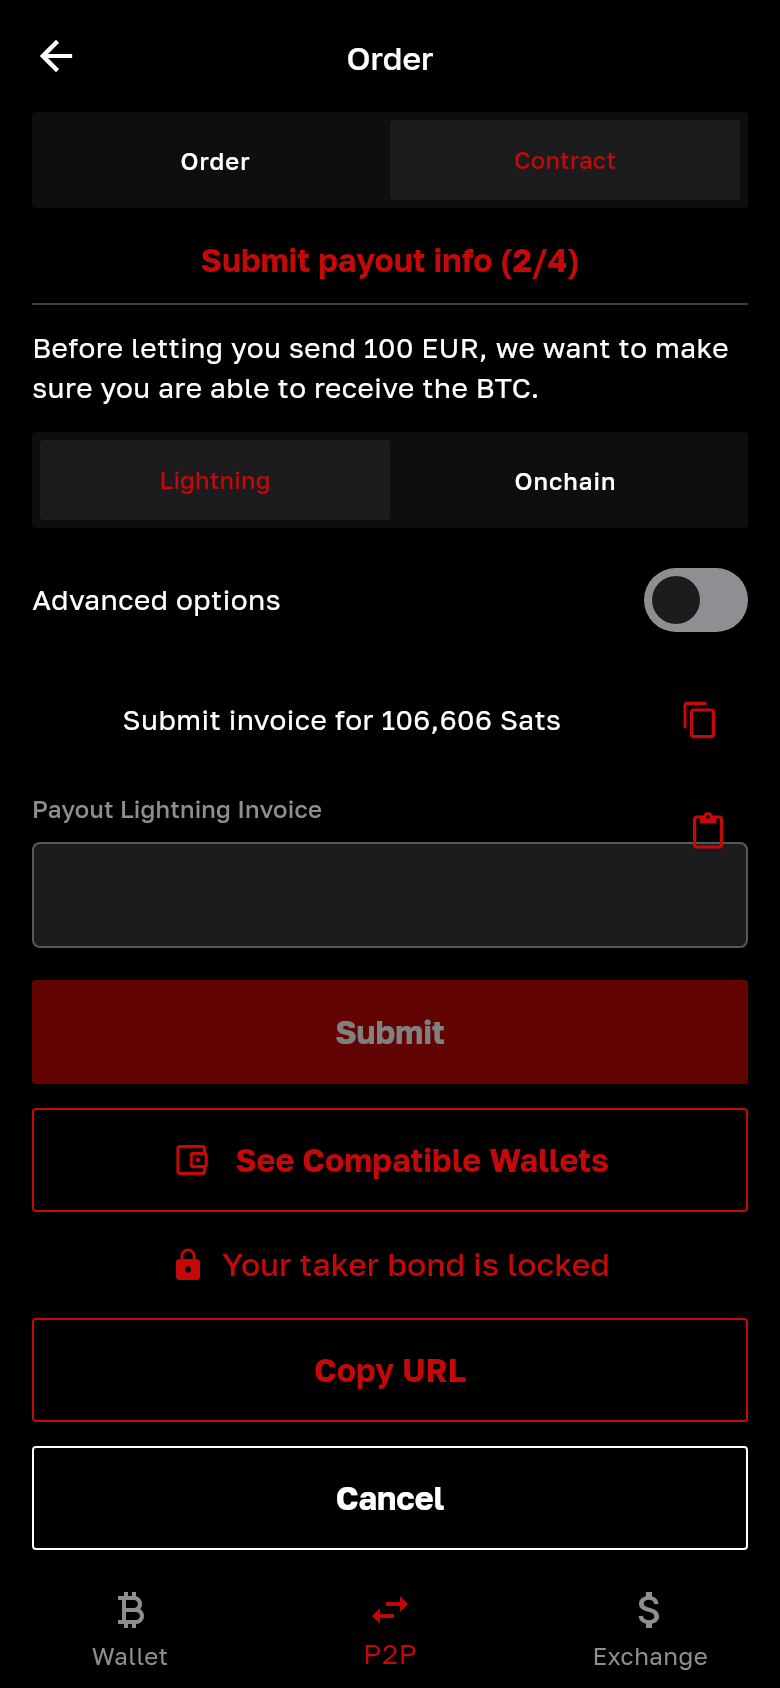
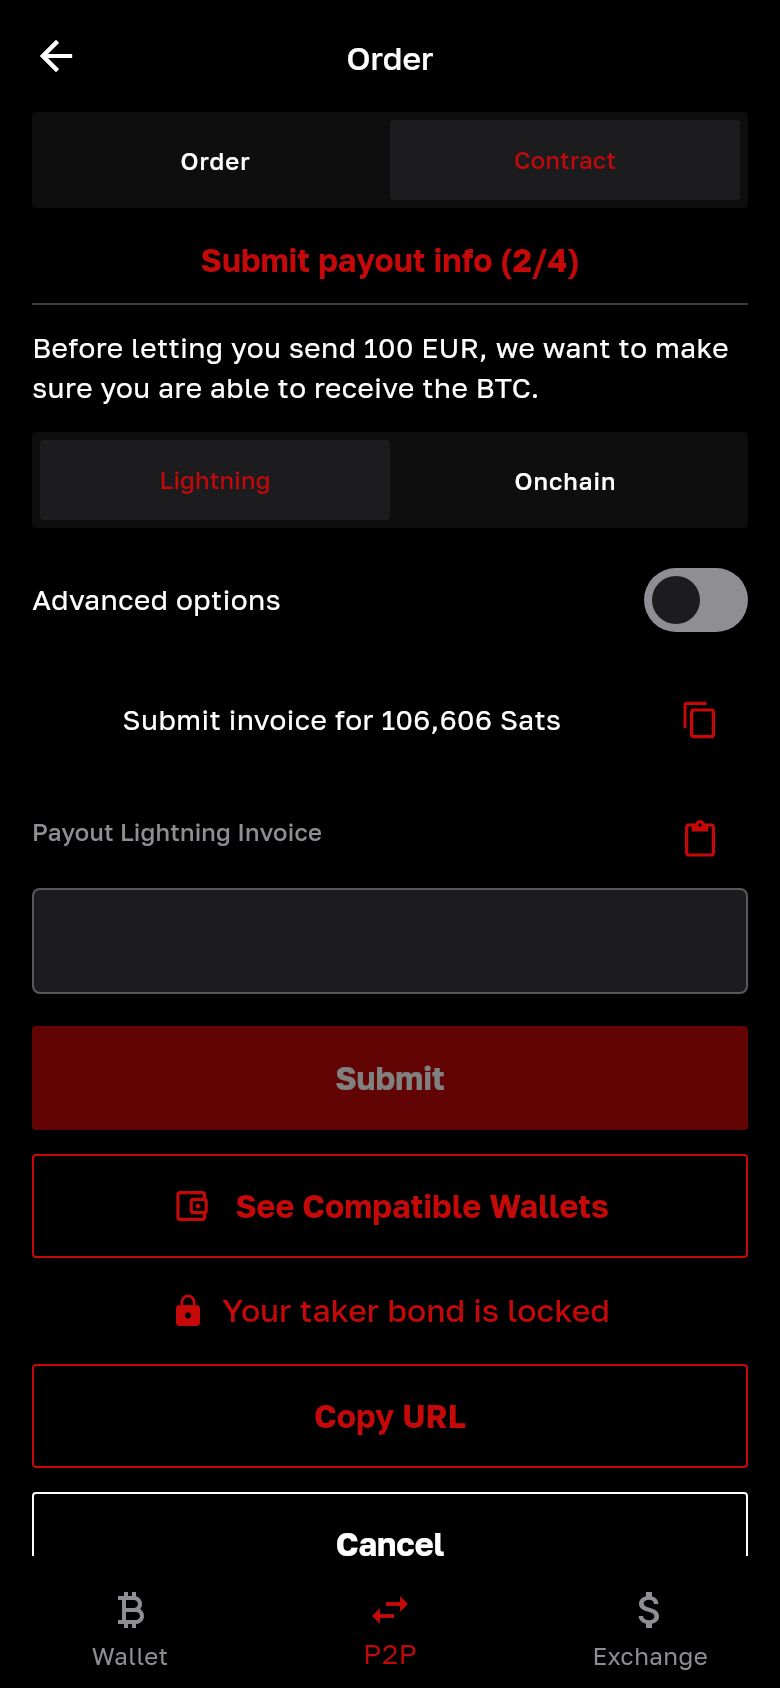
wip(p2p): the screenshot of the bond locked with « Paste » above its field, AGENTS on the tap and the reads with no time of sending

Changed region(s): [[0.0308, 0.4621, 0.9846, 0.9242], [0.0308, 0.8318, 0.0615, 0.8934]]

diff --git a/AGENTS.md b/AGENTS.md
@@ -418,7 +418,7 @@ This repository is Bull Market (formerly Troc), a fork of Bull Bitcoin Mobile. F
   Deviations from the reference, each with its reason: « Pay with this wallet » above « Pay with another wallet », which holds the reference's QR code and copy (the owner's request of 2026-11-13; « You are BUYING BTC » stays above both, the hold-invoice text under both); the facts under the QR code, no QR code for an unusable invoice, « Show anyway » and the warnings (security, design note § 4.4); « Store your garage key » without the key (security: the key is shown only in the Garage, behind the PIN); the order's details open without a robot, so its description is not shown before the take: a step that reads the order with the trade's robot and shows its description and fresh figures before the take is to come with #119 (the owner's decision of 2026-11-14), inserted in `TakeOrderSection` between « Store your garage key » and `TakeOrderCubit.take`, the only call of `TakeOrderUsecase`; « See Compatible Wallets » shows its link for copy and the QR code opens no wallet (privacy, and the feature cannot open a link); a buy order's « Take Order » disabled with a line, the steps from 9 on (15 aside, #91) replaced by a line (a later version); a line for the states of the watch the reference has no screen for (#87); several active trades listed, where the reference follows one robot; no stepper (the reference shows it on a wide screen only); a comma accepted as the decimal separator of the amount, so « 1,000 » is read as one, not a thousand (the estimate under the field shows the figure read, and the take checks the range again); « lose » for the reference's « loose »; while a take runs, a bar under « Take Order » and, after 30 s, « Still waiting for {coordinator}. Tor can take a minute. » (the reference shows its button loading only; a take over Tor can take a minute); the take's failures the reference has no text for said in words of the app (`TakeProblemL10n`, each marked « the project's own » in the feature's English translations: « Could not reach {coordinator}. The order was not taken. », « This order changed since it was shown. It was not taken: open it again from the book. », « {coordinator} asks for a taker fee above 1 %. The order was not taken. », « The terms of this order could not be checked. It was not taken. », « {reason} The order was not taken. » after the text of what failed, « Bull Market could not write its records on this device. The order was not taken. », « The order was not taken. », « The robots of a pasted Garage Key cannot take orders here. Generate a new Garage Key in the Garage. », « The robot chosen for this take already existed on {coordinator}. The order was not taken: try again. »), a coordinator's error code keeping the reference's message for that code; the QR code, the copy and the wallet's slot hidden once the screen's clock passes the invoice's `payableUntil`, with « This invoice has expired. » (the reference leaves the QR code); « Cancel » with no dialog for a status kept from no order, saying « Wait until the order is read again before cancelling. »; « This order is not available » when the book no longer lists an order public again, and « Coordinator offline » with « Retry » when the book could not be read; the contract's title in the « Order » tab while no order has been read; « Order » shown when the records cannot be read, with a sheet that says so (the reference has nothing to read); « Pay with another wallet » a section that opens and closes, open at first while the wallet's slot is empty; « See Compatible Wallets » in that section, under « You are BUYING BTC », where the reference puts it above (the owner's request: it belongs to the other wallets); « Copy URL » and « Cancel » stacked, where the reference puts them side by side, since both do not fit side by side at three times the text size on a phone of 320 points; `TradeButton` a copy of `BullButton.big` whose label wraps, until `bull_ui` gains such a variant (#124); « Generate Garage Key » greyed in « You do not have a Garage Key » reached from « Take Order », where the Garage can make one (#125).
 - **The payout panel (#91): where the buyer is paid.** `lib/src/ui/trade/payout_panel.dart` (`PayoutPanel`, and `PayoutTold`, the listener the route puts around the trade screen), cubit `PayoutCubit` (`lib/src/presentation/payout_cubit.dart`, one per shown trade, made by the route (`P2pRouter.tradePage`) and closed with it, the only caller of `SubmitPayoutUsecase` and `HoldTradeKeyUsecase`, which the locator gives it as their members, with the app's clock), texts `lib/src/presentation/payout_l10n.dart`. The trade screen draws it under the payout prompt of 6 and 8 and as the prompt of 15 for the buyer (`TradePrompt.routingFailed`), through `TradeScreen(payout:)`, a `PayoutPanelBuilder` given a `PayoutPanelRequest` (the record, the `TradeSeen` shown, the coordinator's name, the screen's clock, whether a cancel runs), keyed, as the screen's contract is, so that a line added above it keeps it; with none (a feature without robots) the prompt shows no form.
   What the user sees, the official client's (`TradeBox/Prompts/Payout.tsx`, `Forms/LightningPayout.tsx`, `Forms/OnchainPayout.tsx`, `Prompts/RoutingFailed.tsx`, commit ff1998c), step by step: under « Before letting you send … » (#88), the tabs « Lightning » and « Onchain » (`BullSegmented`), « Lightning » first, « Onchain » disabled when the coordinator offers no swap and for an order in bitcoin; « Lightning »: « Advanced options » (`BullSwitch`, named by its text for a screen reader) opening « Routing Budget » with its unit PPM / Sats (typed as the reference takes it: an empty field is 0, a value at 99,999 ppm or more is refused and the field keeps the budget applied; « Too high! (That is more than 1%) » in red under it above 10,000; the default budget back when the options are closed), « Submit invoice for {{amountSats}} Sats » (`PayoutAsk.invoiceSatsFor` of the budget) with a copy of the amount, « Payout Lightning Invoice » with « Paste » beside its label (the clipboard read once on the tap, the cursor put at the start of what was pasted as the reference does, the reference's `lightning:` prefix taken off the field itself), the check of what is typed or pasted at each change (`SubmitPayoutUsecase.check`): its refusal under the field, or what « Submit » gives (amount, expiry, network, the payout's warnings), « Submit » (`TradeButton`), what it waits for and gave right under it, and « See Compatible Wallets » (its link shown for copy, as in the bond panel); « Onchain »: « RoboSats coordinator will do a swap and send the Sats to your onchain address. », « Swap fee », « Mining fee » and « Final amount you will receive » (the checked address's own figures once there is one, `CheckedPayoutAddress.swapFeeSats`, `miningFeeSats`, `sentSats`; before, the reference's preview from the form's rate), « Bitcoin Address » with « Paste », « Mining Fee » (the coordinator's suggestion as it sent it, taken once, when the on-chain payout is first offered, and not changed by later reads, as the reference takes it when its form is first shown, `Forms/OnchainPayout.tsx:47-49`; then what the user types; « Invalid » outside 2 to 500 sat/vB; a rate the coordinator later refuses is said as its refusal), the address checked and its network, « Submit ». At 15: while the coordinator retries, « Failure reason: » and the reason, the reference's text and « Next attempt in » with its countdown (« Retrying! » once due); once the invoice expired, the reference's « Your invoice has expired … Submit a new invoice. », the reason, and the Lightning tab alone, with the invoice kept in the form checked again (the coordinator refuses the same invoice, 3002, as with the reference, which keeps its forms above its prompts). A status not stored says « Wait until the order is read again to give your payout info. » and offers no form.
-  The form lives in the cubit (`PayoutForm`: the tab, the invoice, the advanced options, the budget, its unit and its field's text, the address, the rate's field), as the reference keeps its forms in `TradeBox` above the prompts: the panel shows it and changes it through the cubit (`selectKind`, `editInvoice`, `setAdvanced`, `editBudget`, `switchBudgetUnit`, `editAddress`, `editFee`), each change checked at once; a panel built again (the « Order » tab and back, a line added above it, a return to the app) shows exactly what is checked (review of #132). « Submit » is on only for a check that is exactly what the fields show (`PayoutPanelState.submittable`: the same text, budget and rate), and gives that `CheckedPayout` to `PayoutCubit.submit`, which gives it as it is to `SubmitPayoutUsecase.execute`: one at a time, never again by itself. While it runs, the form cannot change, a status shown changes nothing the panel shows (it is applied once the payout told something), the button turns and each step says what it waits for, from the use case's `onProgress` (`PayoutProgress`: opening the trade from its records; another action of the order to end; reading the robot and unlocking its key, a few seconds the first time; reading the order; sending; reading again), with a bar named by the step and, after 30 s, « Still waiting for {coordinator}. Tor can take a minute. » (the take's own line); then what it gave: received (under « Submit »; the trade's watch is asked to read now, whichever tab is shown, and the status moves on), refused by the coordinator (in red under the field, as the reference's helper text, with its own message from the feature's translations: `api/errors.py`, `api/lightning/lnd.py` with the amount the coordinator expects, `api/utils.py`; « Submit » off for an invoice so refused until it or the budget changes, as the reference does; the refusal goes with the text it was about), not reached (« Your payout info did not reach … »), unknown (« Bull Market does not know yet whether … It keeps checking while this screen is open. », never sent again; a fault of `execute` ends there too, and goes on up), changed since shown (the form checked again against the fresh read, and what changed said: the amount, the invoice's expiry, the status), or nothing sent with its reason. What the panel offers about money is true at each moment: once a payout was received, or may have been, the panel keeps its form, read-only, and what it told, even when the read just after it (which shows the next status before the trade screen does) says nothing is asked any more (`PayoutPanelState.shownAsk`, review of #132); and « Submit » is off until a read sent after the outcome came back (`TradeSeen.requestedAt`) still shows the status asking for one, and a line then says so; the trade screen's « Cancel » is off while a payout is given (`TradeScreen(moneyActionRunning:)`, from the route, with the reason as its tooltip), and « Submit » is off while a cancel runs (`PayoutPanelRequest.cancelling`), as the payout and the take of an order run in turn in the process (`TradeTakeLocks`). The robot's key is held (`PayoutCubit.hold`) while the panel is shown with the app in the foreground and its tab of the shell visible, released when the panel goes, the app is hidden or paused, or another tab is shown, and when the cubit closes.
+  The form lives in the cubit (`PayoutForm`: the tab, the invoice, the advanced options, the budget, its unit and its field's text, the address, the rate's field), as the reference keeps its forms in `TradeBox` above the prompts: the panel shows it and changes it through the cubit (`selectKind`, `editInvoice`, `setAdvanced`, `editBudget`, `switchBudgetUnit`, `editAddress`, `editFee`), each change checked at once; a panel built again (the « Order » tab and back, a line added above it, a return to the app) shows exactly what is checked (review of #132). « Submit » is on only for a check that is exactly what the fields show (`PayoutPanelState.submittable`: the same text, budget and rate), and gives that `CheckedPayout` to `PayoutCubit.submit(kind, shown:)`, the very one the button's frame was drawn with, sent only if it is still the one offered (a status that changes a figure between the frame and the tap sends nothing, and the panel shows the new figure: second security review of #132), which gives it as it is to `SubmitPayoutUsecase.execute`: one at a time, never again by itself. While it runs, the form cannot change, a status shown changes nothing the panel shows (it is applied once the payout told something), the button turns and each step says what it waits for, from the use case's `onProgress` (`PayoutProgress`: opening the trade from its records; another action of the order to end; reading the robot and unlocking its key, a few seconds the first time; reading the order; sending; reading again), with a bar named by the step and, after 30 s, « Still waiting for {coordinator}. Tor can take a minute. » (the take's own line); then what it gave: received (under « Submit »; the trade's watch is asked to read now, whichever tab is shown, and the status moves on), refused by the coordinator (in red under the field, as the reference's helper text, with its own message from the feature's translations: `api/errors.py`, `api/lightning/lnd.py` with the amount the coordinator expects, `api/utils.py`; « Submit » off for an invoice so refused until it or the budget changes, as the reference does; the refusal goes with the text it was about), not reached (« Your payout info did not reach … »), unknown (« Bull Market does not know yet whether … It keeps checking while this screen is open. », never sent again; a fault of `execute` ends there too, and goes on up), changed since shown (the form checked again against the fresh read, and what changed said: the amount, the invoice's expiry, the status), or nothing sent with its reason. What the panel offers about money is true at each moment: once a payout was received, or may have been, the panel keeps its form, read-only, and what it told, even when the read just after it (which shows the next status before the trade screen does) says nothing is asked any more (`PayoutPanelState.shownAsk`, review of #132); and « Submit » is off until a read sent after the outcome came back (`TradeSeen.requestedAt`, set by the watch and by the payout's own reads; a read with none, such as the cancel's, the bond payment's or a status restored from disk, is never after it) still shows the status asking for one, and a line then says so; the trade screen's « Cancel » is off while a payout is given (`TradeScreen(moneyActionRunning:)`, from the route, with the reason as its tooltip), and « Submit » is off while a cancel runs (`PayoutPanelRequest.cancelling`), as the payout and the take of an order run in turn in the process (`TradeTakeLocks`). The robot's key is held (`PayoutCubit.hold`) while the panel is shown with the app in the foreground and its tab of the shell visible, released when the panel goes, the app is hidden or paused, or another tab is shown, and when the cubit closes.
   The slot of « Use a new address of this wallet » and « Create an invoice in this wallet » (#90, the wallet's port): `PayoutPanel(wallet:)` takes a `PayoutWalletBuilder`, called at the top of each tab with a `PayoutWalletRequest` (the record, the `PayoutAsk`, the tab, and `use`, which puts a text in the tab's field, where it is checked as a pasted one); with none (today) or `null`, the slot draws nothing.
   Never printed or logged: the invoice, the address, what was signed; the values print their kind only (tested with the output capture). Not protected from capture: the payout is the user's own invoice or address, shown to the user who gave it, as the bond's invoice panel is not protected (design note § 4.3).
   Deviations from the reference, each with its reason: each wait of « Submit » said in words of the app, with the bar and « Still waiting » after 30 s (the owner's request: a wait that says nothing looks like a fault; the reference turns its button only); what « Submit » gives shown before it (for an invoice the amount, expiry and network read from it, for an address the address checked and its network, and the payout's warnings: security, design note § 4.4); the on-chain figures taken from the check once there is one (review of #132: never two figures for one thing); the check's refusals in words of the app where the reference shows the decoder's error text, and an invoice of no whole number of sats refused (#90); the reason of « Onchain » disabled said in a line (the coordinator's `swap_failure_reason` as a kind, which the reference does not show: design note § 2.2); a pasted text trimmed of the spaces and line breaks around it (the field shows what is checked and signed); the mining fee and the final amount shown only for a rate that may be sent (the reference computes them with at least 2 sat/vB), « Invalid » for a rate of more than 3 decimals (what is sent is what is shown, `MiningFeeRate`); « Submit » of « Onchain » off without a checked address (security: the reference disables it only for an invalid rate); « What the address receives » as the coordinator computes it (#90); a refusal of the coordinator under the field goes when the field changes (the reference keeps an address's until the next submit); the coordinator's `bad_request` refusals (1016, 1017, 1047, 1048) said in the panel, where the reference shows them at the top of the page; « Failure reason » hidden when the coordinator gives none (the reference shows the box empty); no Lnproxy (a third-party server, privacy); « See Compatible Wallets » shows its link for copy and opens nothing (privacy, as in the bond panel); « Copy the amount » as the copy button's spoken name (the reference's icon has none); the countdown of 15 in French « mm min ss s »; « Submit » not offered again after a payout received or that may have been until a later read still asks for one, « Cancel » off while a payout is given and « Submit » while a cancel runs (money: what the screen offers is true at each moment). In the wallet's look, without other reason: the tabs as `BullSegmented` without the reference's icons (Bolt, Link), « Advanced options » without its icon, the labels above the fields rather than floating in them with « Paste » beside the label, « Copied! » as a line under the amount rather than a tooltip, the PPM / Sats unit as a text button beside the field, no frame around the Lightning form.
